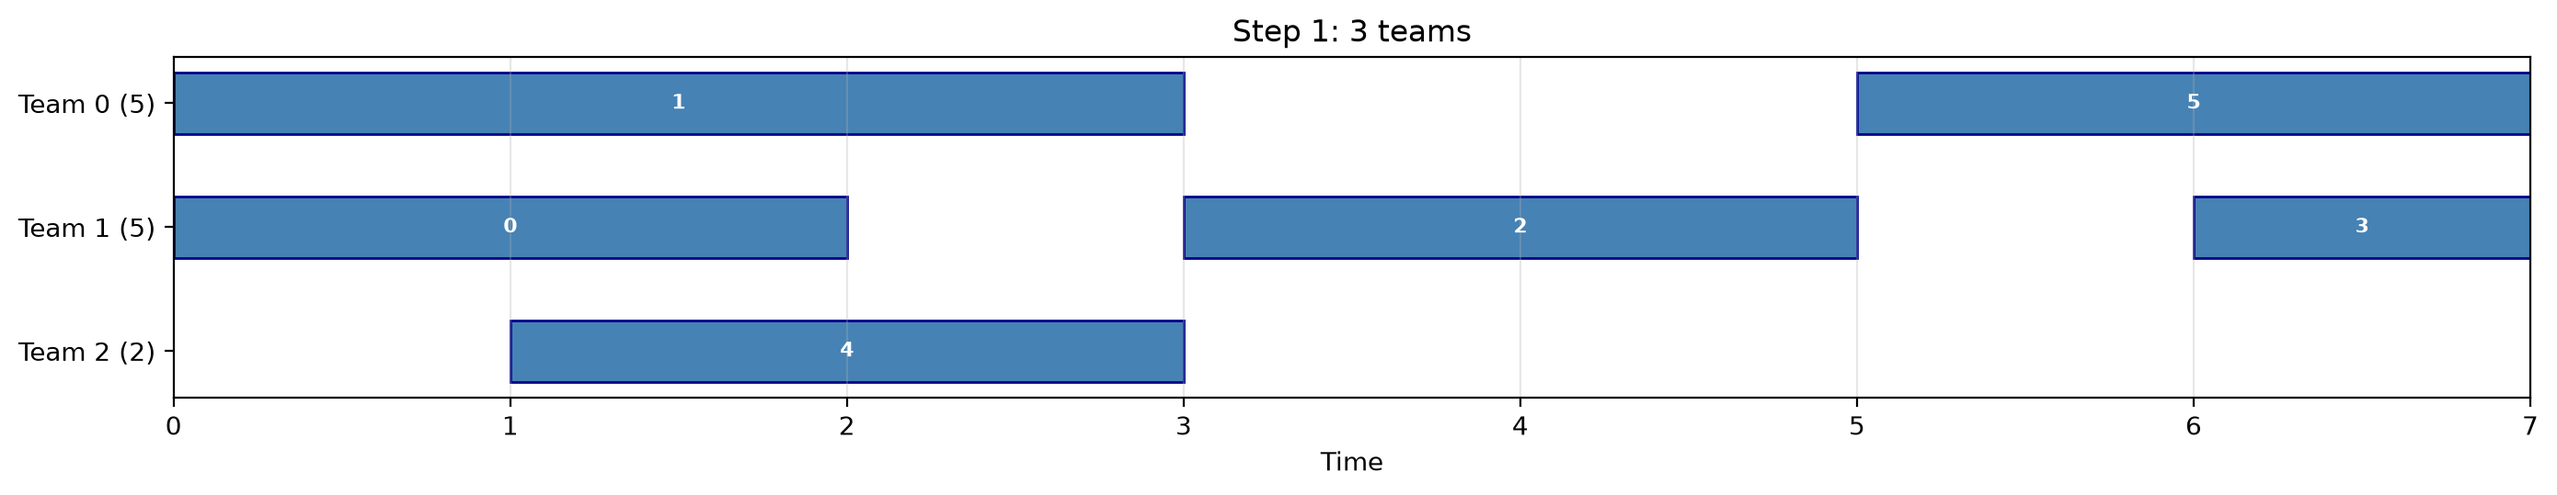
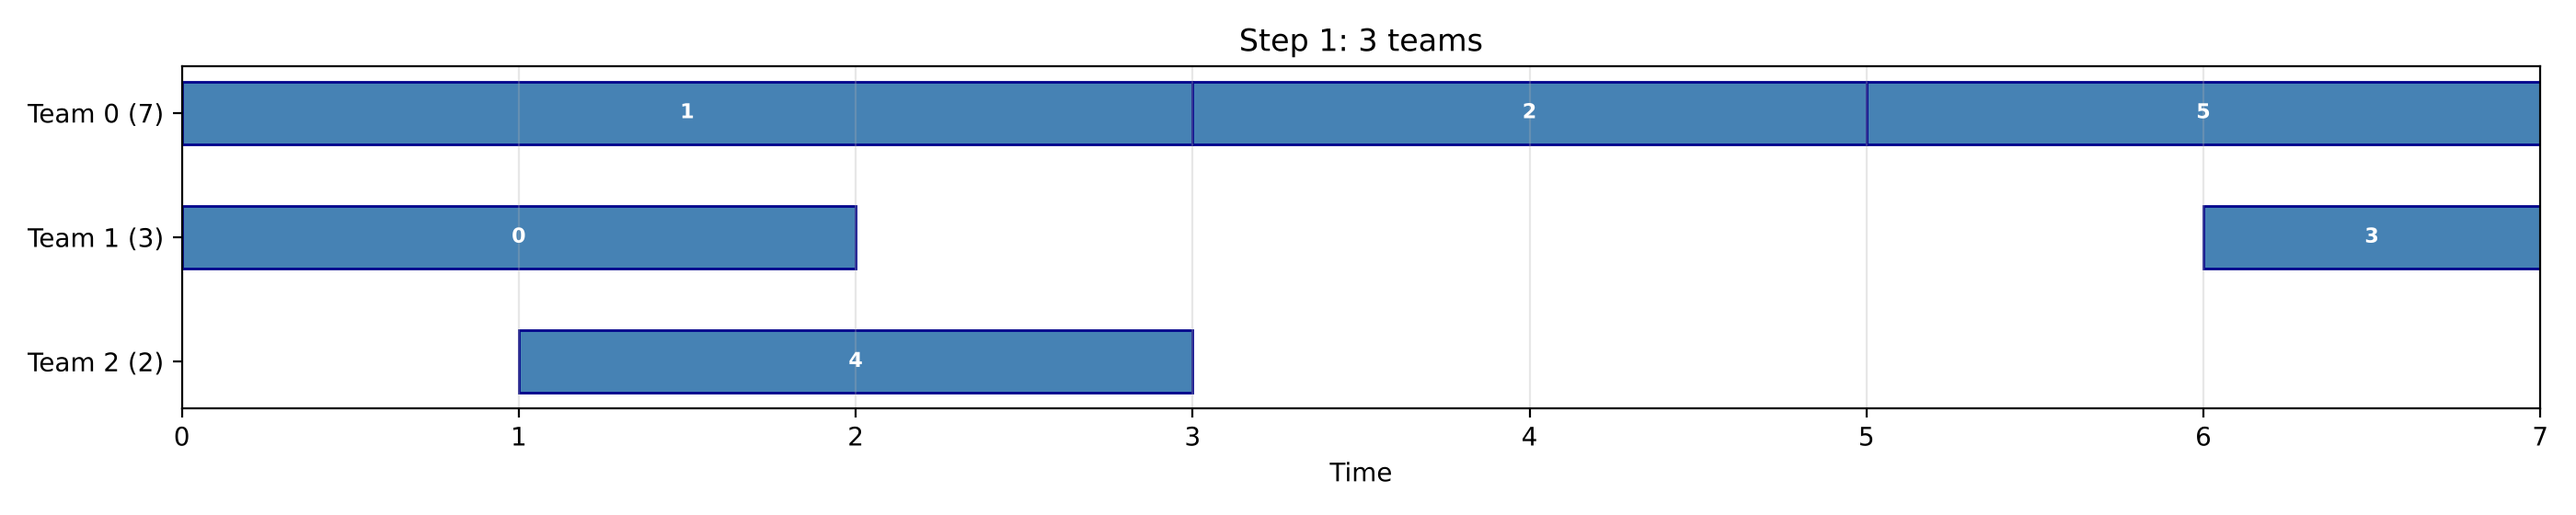
Sync CP-SAT workforce slides with the updated notebooks
- Intro: replace the add_all_different/add_element model with the
  add_exactly_one version and the "rule of thumb" from the notebook
- Step 1: show the instance plot, split the shared assignment part
  (add_exactly_one, add_implication) from the MIP-only pairwise
  no-overlap, and show the solution on the CP-SAT slide
- Step 2: instance plot with time windows, "nothing else to do"
  framing, updated model sizes (add_bool_or is gone)
- Step 3: same-team code with the compatibility guard, instance plot
  before the solution
- Regenerate all workforce figures with the current notebook
  (OR-Tools 9.15.6755) and update constraint counts in the live table

Claude-Session: https://claude.ai/code/session_012JRUisgTfyDd7DovPJdscj

diff --git a/presentations/hands-on-cp-sat/slides.md b/presentations/hands-on-cp-sat/slides.md
@@ -372,7 +372,7 @@ status = solver.solve(model)
 
 <div class="text-sm opacity-70 mt-2">
 
-Looks just like a MIP. And that's fine!
+Looks just like a MIP. With `model.add()`, any linear inequality goes: we could model any integer linear problem. But CP-SAT has more in store...
 
 </div>
 
@@ -385,33 +385,38 @@ Four steps: model, variables, constraints + objective, solve. Whoever has writte
 
 ---
 
-## The same model, the CP-SAT way
+## Global constraints
 
 <div class="grid grid-cols-[3fr_2fr] gap-8 mt-2">
 <div>
 
-```python {all|3|5|6-7|9}
+```python {all|3|5-6|7-8|10}
 model = cp_model.CpModel()
 
-job_of = [model.new_int_var(0, 3, "") for w in W]   # which job?
-cost_of = [model.new_int_var(0, 125, "") for w in W]
+x = {(w, j): model.new_bool_var("") for w in W for j in J}
 
-model.add_all_different(job_of)
-for w in W:  # cost_of[w] == cost[w][job_of[w]]
-    model.add_element(job_of[w], cost[w], cost_of[w])
+for j in J:  # every job is done by exactly one worker
+    model.add_exactly_one(x[w, j] for w in W)
+for w in W:  # every worker does exactly one job
+    model.add_exactly_one(x[w, j] for j in J)
 
-model.minimize(sum(cost_of))
+model.minimize(sum(cost[w][j] * x[w, j] for w in W for j in J))
 ```
+
+<div class="text-sm opacity-70 mt-2">
+
+Same optimum: **265**
+
+</div>
 
 </div>
 <div class="text-sm">
 
 <v-clicks>
 
-- Say **what you mean**: "which job does Ana do?" is one integer, not four Booleans
-- `add_all_different`: both families of constraints in **one line**
-- `add_element`: look up a value with a variable index
-- These are **global constraints**: they capture a whole substructure, and the solver has specialized algorithms for each of them
+- Instead of `sum(...) == 1`: the global constraint `add_exactly_one`
+- **Descriptive**: you say exactly *what* should be enforced
+- Global constraints capture a whole **substructure** of the problem, and the solver has specialized algorithms for each of them
 
 </v-clicks>
 
@@ -420,7 +425,7 @@ model.minimize(sum(cost_of))
 
 <div v-click class="mt-6">
 
-**The CP-SAT way:** find the structure in your problem and use the global constraint that describes it. Let's do this on a real problem!
+**Rule of thumb:** if a global constraint captures a substructure of your problem, use it. The model gets more concise, and the solver gets more insight into its structure. Let's do this on a real problem!
 
 </div>
 
@@ -566,11 +571,11 @@ Steps 1 and 2: first the **MIP way**, then the **CP-SAT way**. Everything is in 
 
 <div v-click class="mt-6">
 
-<img src="/assets/workforce_baby_step1.png" class="w-full" />
+<img src="/assets/workforce_baby_problem1.png" class="w-full" />
 
 <div class="text-sm opacity-70 mt-1 text-center">
 
-Baby example: 6 tasks, 3 teams. Tasks 0, 1 and 4 all run between 1 and 2: we need **3 teams**.
+Baby example: 6 tasks, 3 teams, a working day of 8 hours. Teams in brackets: only these are compatible.
 
 </div>
 
@@ -578,25 +583,21 @@ Baby example: 6 tasks, 3 teams. Tasks 0, 1 and 4 all run between 1 and 2: we nee
 
 ---
 
-## Step 1: the MIP way
+## Step 1: the assignment
 
 <div class="grid grid-cols-[3fr_2fr] gap-8 mt-2">
 <div>
 
-```python {all|2-3|5-6|7-8|10-13|15}
+```python {all|2|3|5-6|8-9|11}
 # x[j, k]: team k does task j     used[k]: team k is used
 x = {(t.id, k): model.new_bool_var("") for t in tasks for k in t.compatible_teams}
 used = {k: model.new_bool_var("") for k in teams}
 
-for t in tasks:  # every task is done by one compatible team
+for t in tasks:  # every task is done by exactly one compatible team
     model.add_exactly_one(x[t.id, k] for k in t.compatible_teams)
+
 for (j, k) in x:  # a team that does a task is used
     model.add_implication(x[j, k], used[k])
-
-for a, b in combinations(tasks, 2):
-    if a.release < b.due and b.release < a.due:  # overlap in time
-        for k in set(a.compatible_teams) & set(b.compatible_teams):
-            model.add(x[a.id, k] + x[b.id, k] <= 1)
 
 model.minimize(sum(used.values()))
 ```
@@ -606,8 +607,37 @@ model.minimize(sum(used.values()))
 
 <v-clicks>
 
+- Only **compatible** (task, team) pairs get a variable
+- `add_exactly_one` instead of $\sum_k x_{j,k} = 1$
+- `add_implication(a, b)` means $a \Rightarrow b$, i.e. $x_{j,k} \leq used_k$
+- This part is the same for **both** ways. The difference: *a team does one task at a time*
+
+</v-clicks>
+
+</div>
+</div>
+
+---
+
+## Step 1: the MIP way
+
+<div class="grid grid-cols-[3fr_2fr] gap-8 mt-2">
+<div>
+
+```python {all|1-2|3-4}
+for a, b in combinations(tasks, 2):
+    if a.release < b.due and b.release < a.due:  # overlap in time
+        for k in set(a.compatible_teams) & set(b.compatible_teams):
+            model.add(x[a.id, k] + x[b.id, k] <= 1)
+```
+
+</div>
+<div class="text-sm mt-4">
+
+<v-clicks>
+
 - One constraint per **pair** of overlapping tasks and per team that could do both
-- Works fine. But the solver sees thousands of small, unrelated constraints instead of the structure behind them:
+- Would work. But it is a decomposition: the solver sees thousands of small, unrelated constraints instead of the structure behind them:
 
 </v-clicks>
 
@@ -675,10 +705,21 @@ for k in teams:
 <v-clicks>
 
 - Replaces all the pairwise constraints: **one global constraint per team**
-- Same answer on the baby example: **3 teams**
 - Note: `start` is just a parameter here. Keep that in mind!
 
 </v-clicks>
+
+<div v-click class="mt-4">
+
+<img src="/assets/workforce_baby_step1.png" class="w-full" />
+
+<div class="text-sm opacity-70 mt-1 text-center">
+
+Both ways agree: **3 teams**. Between 1 and 2, tasks 0, 1 and 4 run at the same time.
+
+</div>
+
+</div>
 
 ---
 layout: center
@@ -726,11 +767,11 @@ start = {t.id: model.new_int_var(t.release, t.due - t.duration, "") for t in tas
 
 <div v-click class="mt-6">
 
-<img src="/assets/workforce_baby_step2.png" class="w-full" />
+<img src="/assets/workforce_baby_problem2.png" class="w-full" />
 
 <div class="text-sm opacity-70 mt-1 text-center">
 
-The flexibility saves a team: **2 teams** are enough now.
+Same tasks, now with real time windows. Do we still need 3 teams?
 
 </div>
 
@@ -785,26 +826,39 @@ In CP-SAT: an **enforcement literal**. The constraint only holds if all literals
 
 <v-click>
 
-**That's it.** The intervals move along with their start, the rest of the model stays the same.
+**Nothing else to do.** `add_no_overlap_intervals` already takes `start` as a parameter: we pass variables instead of numbers, the intervals move along.
 
 </v-click>
 
-<div v-click class="mt-8">
+<v-switch class="mt-6">
+<template #1>
+
+<img src="/assets/workforce_baby_step2.png" class="w-full" />
+
+<div class="text-sm opacity-70 mt-1 text-center">
+
+The flexibility saves a team: **2 teams** are enough now.
+
+</div>
+
+</template>
+<template #2>
 
 Model size on a challenge instance (58 tasks, 18 teams):
 
 | | variables | constraints |
 |---|---|---|
-| MIP way | 1,725 | 22,740 |
-| CP-SAT way | 1,088 | 2,118 |
+| MIP way | 1,725 | 22,722 |
+| CP-SAT way | 1,088 | 2,100 |
 
 <div class="text-sm opacity-70">
 
-The MIP way grows with *pairs of tasks × teams*, the CP-SAT way with *compatible (task, team) pairs*.
+The MIP way grows with *pairs of tasks × teams*, the CP-SAT way with *compatible (task, team) pairs*. From here on, we continue with the CP-SAT way only.
 
 </div>
 
-</div>
+</template>
+</v-switch>
 
 ---
 
@@ -813,7 +867,7 @@ The MIP way grows with *pairs of tasks × teams*, the CP-SAT way with *compatibl
 <div class="grid grid-cols-[3fr_2fr] gap-8 mt-2">
 <div>
 
-```python {all|1-3|5-6|8-11}
+```python {all|1-3|5-6|8-12}
 # lunch breaks: fixed intervals in the same no_overlap
 intervals += [model.new_fixed_size_interval_var(u.start, u.duration, "")
               for u in team.unavailabilities]
@@ -824,7 +878,8 @@ for a, b in problem.precedence:  # a ends before b starts
 for first, *others in problem.same_team:  # same team
     for other in others:
         for k in teams:
-            model.add(x.get((first, k), 0) == x.get((other, k), 0))
+            if (first, k) in x or (other, k) in x:
+                model.add(x.get((first, k), 0) == x.get((other, k), 0))
 ```
 
 </div>
@@ -834,24 +889,37 @@ for first, *others in problem.same_team:  # same team
 
 - An unavailability is an interval that is **always present**. One new line!
 - Precedences: one linear constraint each
-- Same-team groups: equal assignment variables
+- Same-team groups: equal assignment variables. If only one task is compatible with team $k$, the other can't be done by $k$ either
 
 </v-clicks>
 
 </div>
 </div>
 
-<div v-click class="mt-4">
+<v-switch class="mt-2">
+<template #1>
+
+<img src="/assets/workforce_baby_problem3.png" class="w-4/6 mx-auto" />
+
+<div class="text-sm opacity-70 text-center">
+
+Team 0 has lunch from 4 to 5 (quite late), task 0 before task 2, tasks 3 and 5 by the same team.
+
+</div>
+
+</template>
+<template #2>
 
 <img src="/assets/workforce_baby_step3.png" class="w-5/6 mx-auto" />
 
 <div class="text-sm opacity-70 mt-1 text-center">
 
-Team 0 has lunch from 4 to 5, task 0 before task 2, tasks 3 and 5 by the same team. Still **2 teams**. Is the work shared fairly? Only by luck.
+Still **2 teams**. Is the work shared fairly? Nobody told the solver: only by luck.
 
 </div>
 
-</div>
+</template>
+</v-switch>
 
 ---
 layout: center
@@ -977,10 +1045,10 @@ Same solver, same constraints, same symmetry breaking, 30 s each. The only diffe
 
 | Instance | Tasks | constraints MIP way | constraints CP-SAT way | MIP way | CP-SAT way |
 |---|---|---|---|---|---|
-| instance_202 | 26 | 5,261 | 1,175 | optimal, 0.3 s | optimal, 0.1 s |
-| instance_24_56 | 25 | 4,431 | 1,083 | optimal, 0.2 s | optimal, 0.2 s |
-| instance_71 | 58 | 23,013 | 2,391 | optimal, 7.3 s | optimal, **0.6 s** |
-| instance_19 | 62 | 33,501 | 2,931 | 9000, bound 7200 | optimal, **0.4 s** |
+| instance_202 | 26 | 5,243 | 1,157 | optimal, 0.3 s | optimal, 0.1 s |
+| instance_24_56 | 25 | 4,413 | 1,065 | optimal, 0.2 s | optimal, 0.2 s |
+| instance_71 | 58 | 22,995 | 2,373 | optimal, 7.3 s | optimal, **0.6 s** |
+| instance_19 | 62 | 33,481 | 2,911 | 9000, bound 7200 | optimal, **0.4 s** |
 
 </div>
 
